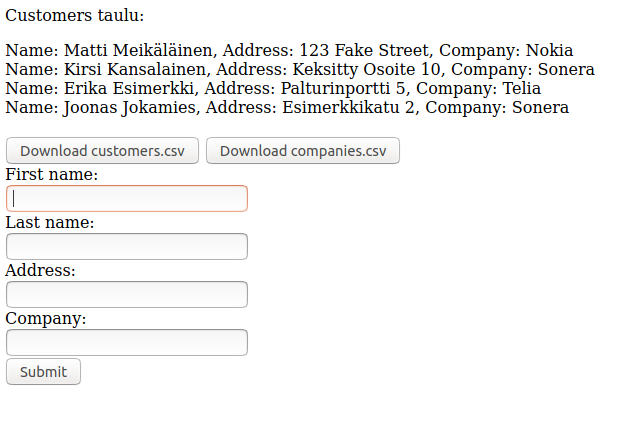
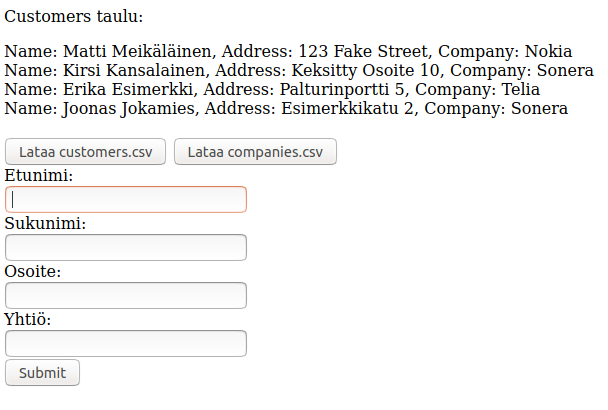
suomennettu

Changed region(s): [[0.0, 0.0878, 0.9688, 0.2927], [0.0, 0.322, 0.6562, 0.9366], [0.0, 0.0, 0.25, 0.0585]]

diff --git a/app/index.html b/app/index.html
@@ -9,18 +9,18 @@
 <p>Customers taulu: </p>
 <div id="data"></div>
 <br>
-<button id="downloadcustomers">Download customers.csv</button>
-<button id="downloadcompanies">Download companies.csv</button>
+<button id="downloadcustomers">Lataa customers.csv</button>
+<button id="downloadcompanies">Lataa companies.csv</button>
 <br>
 <div>
 <form id="insert", method = 'post'>
-  <label for="firstname">First name:</label><br>
+  <label for="firstname">Etunimi:</label><br>
   <input type="text" id="firstname" name="firstname"><br>
-  <label for="lastname">Last name:</label><br>
+  <label for="lastname">Sukunimi:</label><br>
   <input type="text" id="lastname" name="lastname"><br>
-  <label for="address">Address:</label><br>
+  <label for="address">Osoite:</label><br>
   <input type="text" id="address" name="address"><br>
-  <label for="company">Company:</label><br>
+  <label for="company">Yhtiö:</label><br>
   <input type="text" id="company" name="company"><br>
   <input type="button" id="insert" value="Submit" onClick='insertdata()'>
 </form>
